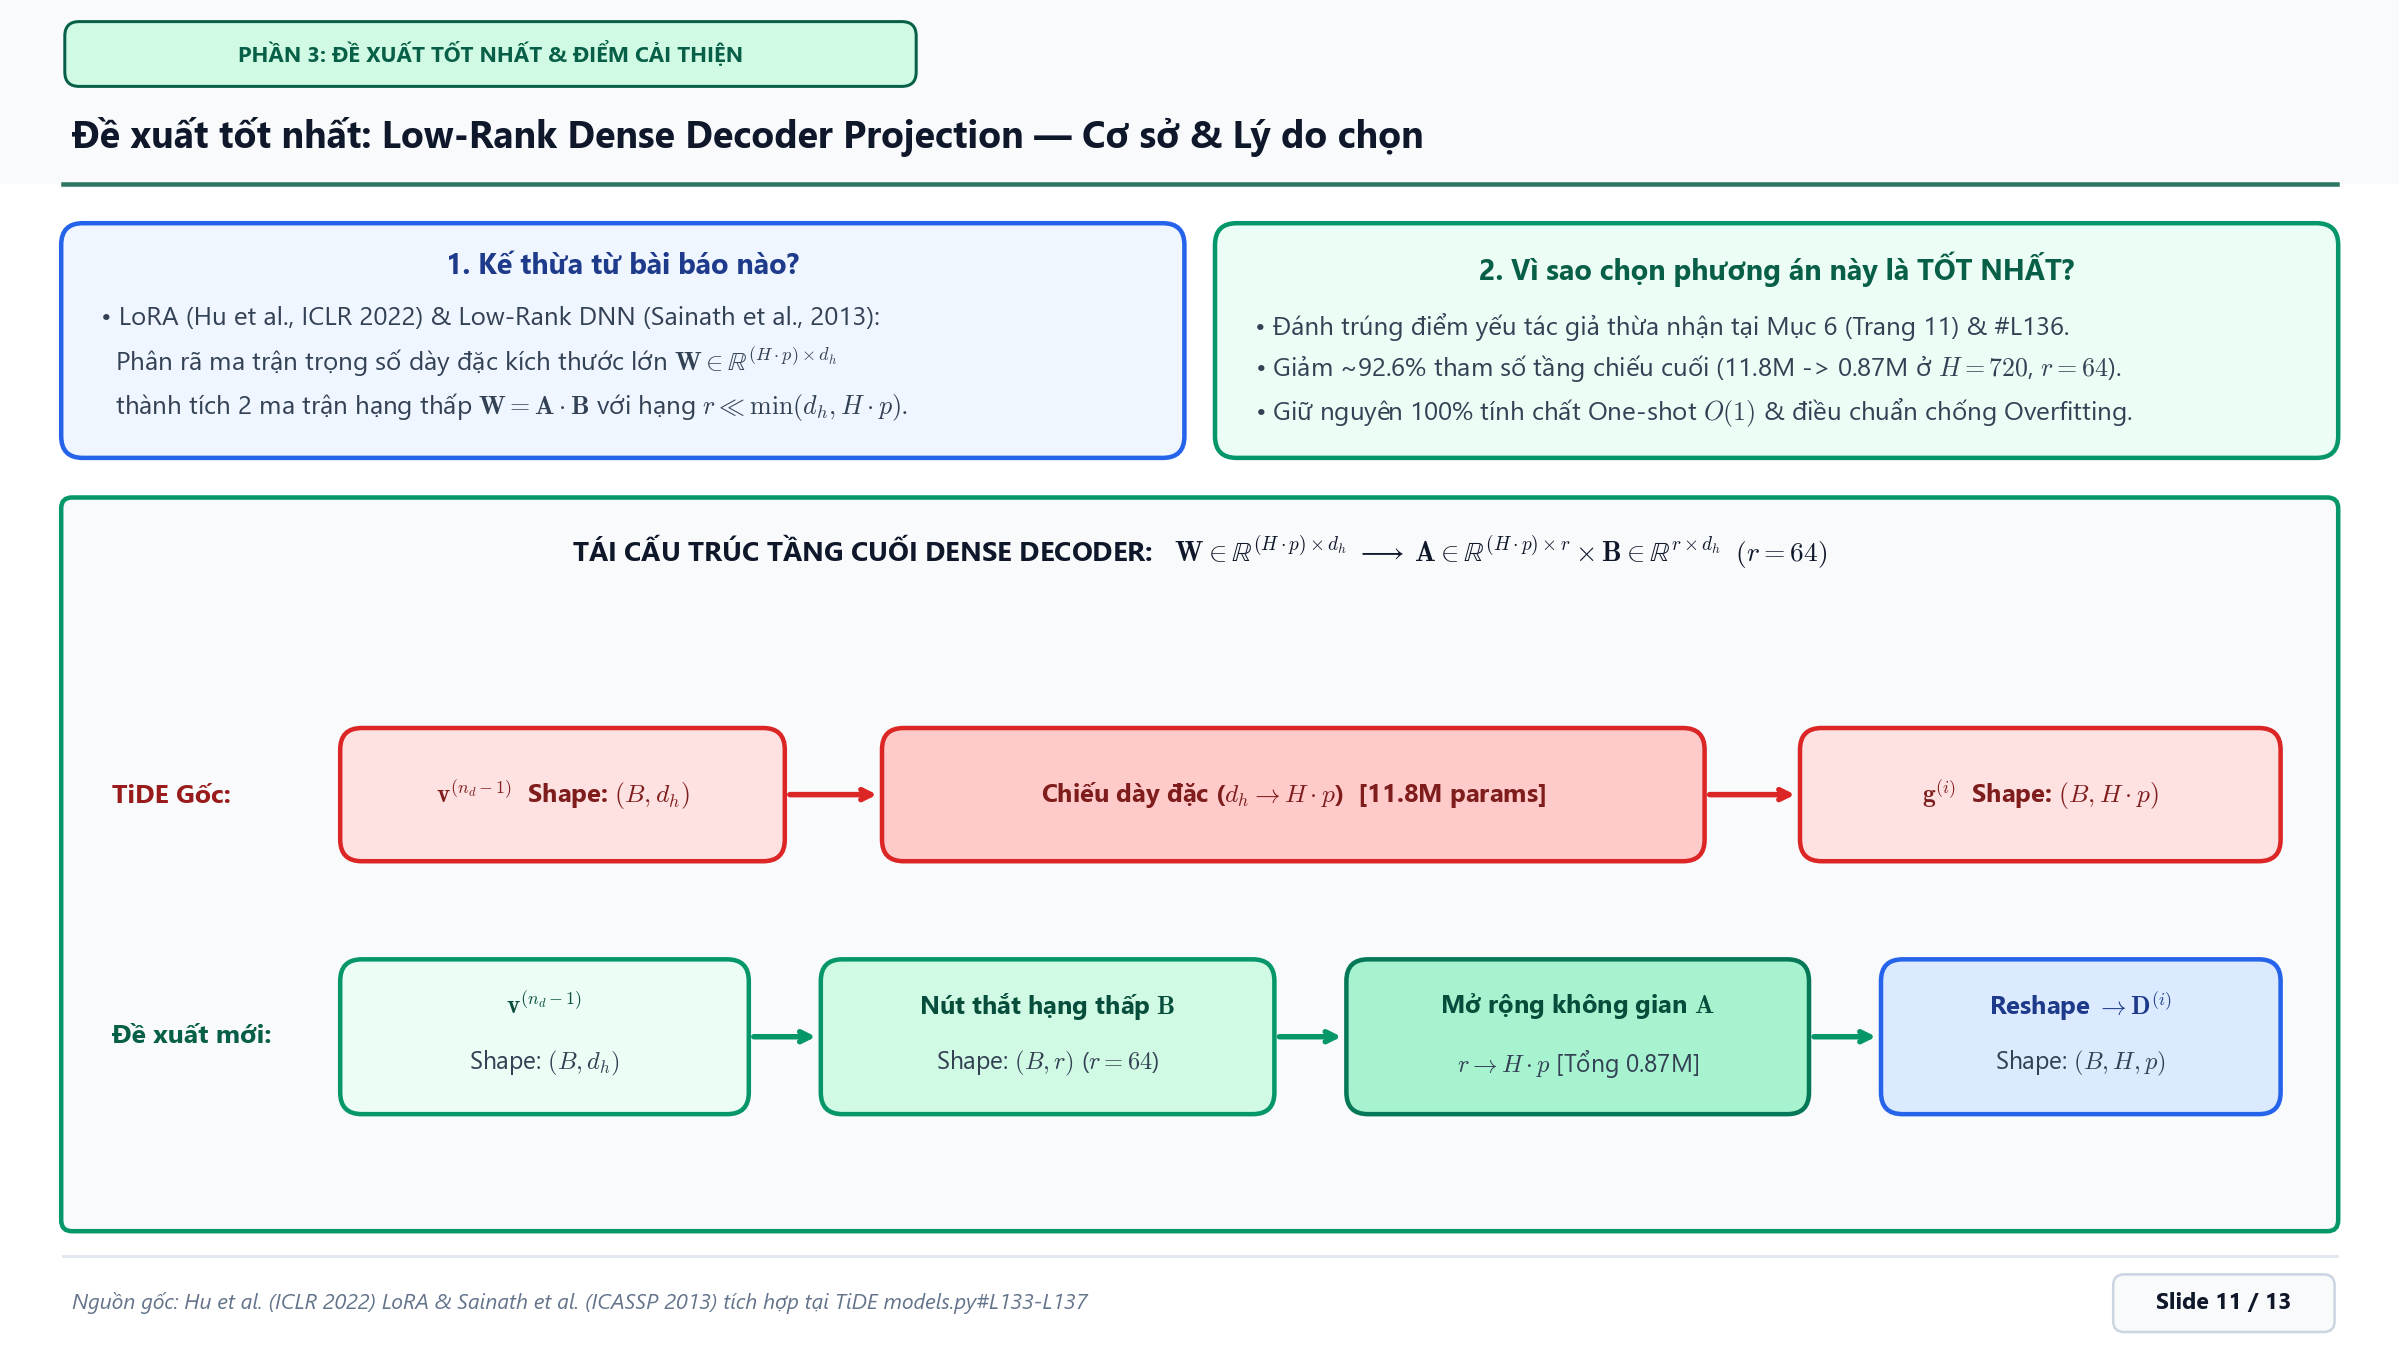
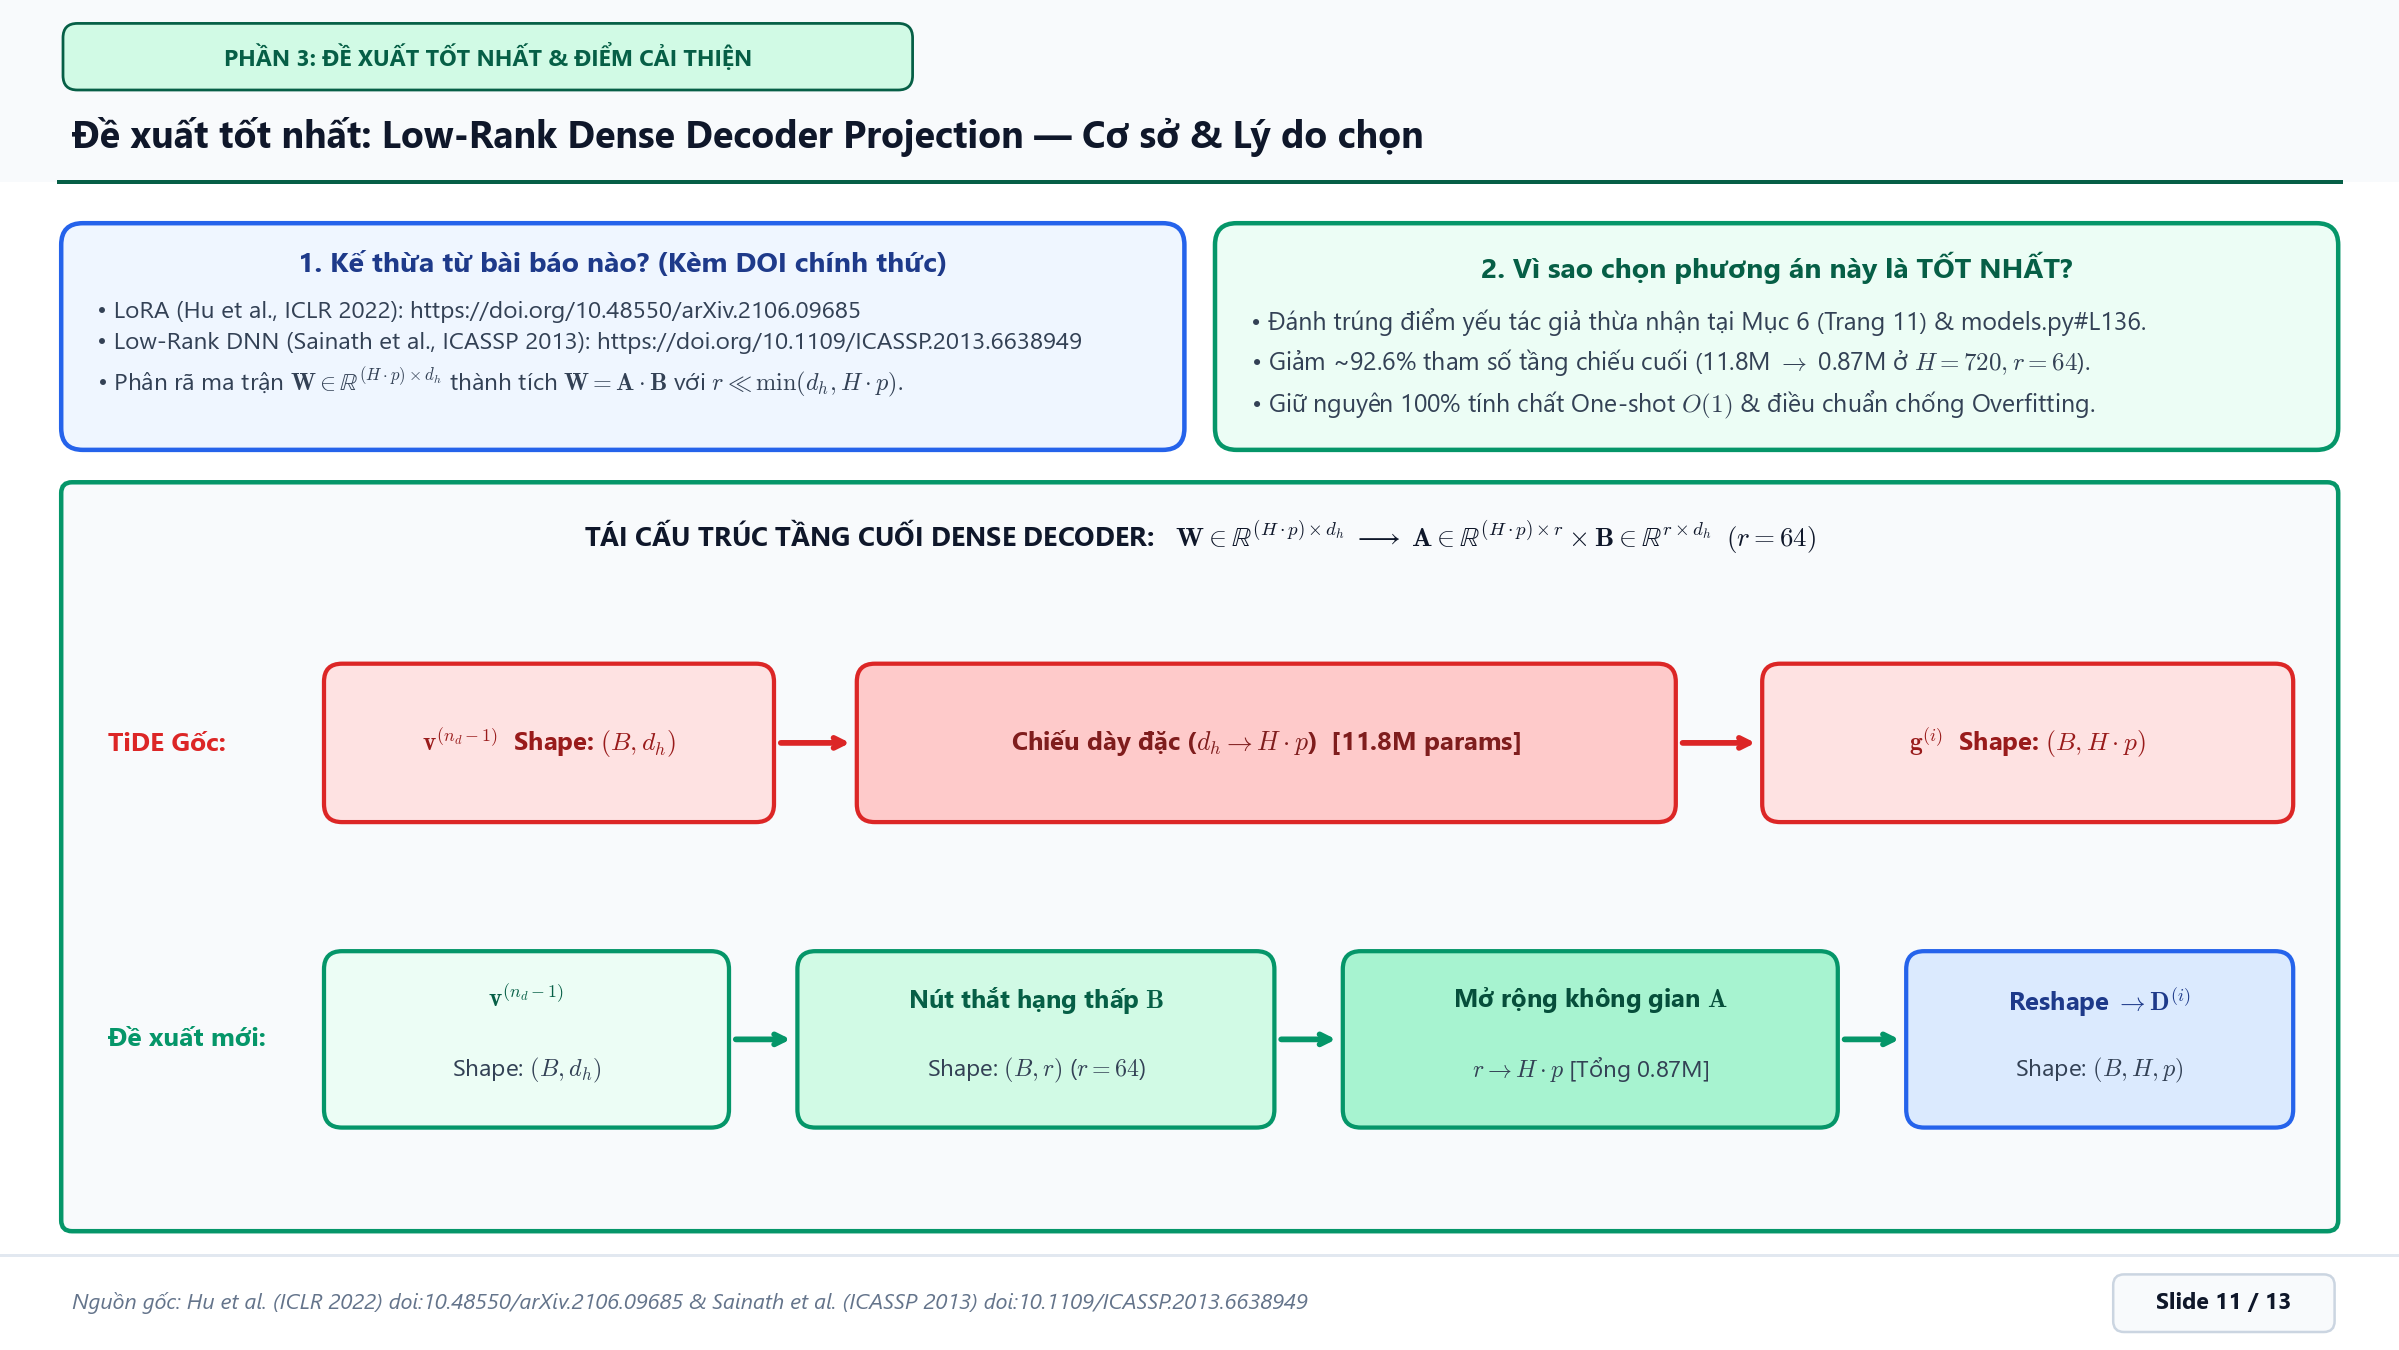
Add official paper DOI links to Slide 11 / 13 (Hu et al. 2022 & Sainath et al. 2013)

diff --git a/tasks-Hieu/presentation/slide/script_thuyet_trinh_tung_slide.md b/tasks-Hieu/presentation/slide/script_thuyet_trinh_tung_slide.md
@@ -297,7 +297,7 @@ Và chính tác giả bài báo cũng thẳng thắn thừa nhận giới hạn 
 
 Để giải quyết triệt để nút thắt 11.8 triệu tham số mà tác giả để lại tại Mục 6 và dòng 136 của `models.py`, ở Slide 11 mình đề xuất phương án tối ưu nhất cho nhóm: **Low-Rank Dense Decoder Projection**.
 
-Ý tưởng này kế thừa từ hai nghiên cứu kinh điển là **LoRA (Hu et al., ICLR 2022)** và **Low-Rank DNN (Sainath et al., ICASSP 2013)**: thay vì học một ma trận trọng số dày đặc kích thước khổng lồ $\mathbf{W}$ nối thẳng từ $d_h$ sang $H \cdot p$, ta **phân rã nó thành tích của hai ma trận hạng thấp $\mathbf{A} \cdot \mathbf{B}$** đi qua một hạng trung gian nhỏ $r$.
+Ý tưởng này kế thừa từ hai nghiên cứu kinh điển là **LoRA (Hu et al., ICLR 2022 — [doi:10.48550/arXiv.2106.09685](https://doi.org/10.48550/arXiv.2106.09685))** và **Low-Rank DNN (Sainath et al., ICASSP 2013 — [doi:10.1109/ICASSP.2013.6638949](https://doi.org/10.1109/ICASSP.2013.6638949))**: thay vì học một ma trận trọng số dày đặc kích thước khổng lồ $\mathbf{W}$ nối thẳng từ $d_h$ sang $H \cdot p$, ta **phân rã thành tích của hai ma trận hạng thấp** $\mathbf{A} \cdot \mathbf{B}$ đi qua một hạng trung gian nhỏ $r$.
 
 Để các bạn mới nghe hình dung thật rõ luồng kiến trúc mới thay đổi ra sao so với bản gốc, mình sẽ đi theo từng bước dữ liệu chạy qua tầng cuối:
 

diff --git a/tasks-Hieu/presentation/slide/slide_03_phan_3_de_xuat_cai_tien.md b/tasks-Hieu/presentation/slide/slide_03_phan_3_de_xuat_cai_tien.md
@@ -10,7 +10,8 @@
 
 ### 1. Kế thừa trực tiếp từ các bài báo uy tín
 
-- **Hu et al. (ICLR 2022) — LoRA (*Low-Rank Adaptation of Large Language Models*)** và **Sainath et al. (ICASSP 2013) — Low-Rank Matrix Factorization for DNN**.
+- **Hu et al. (ICLR 2022) — LoRA (*Low-Rank Adaptation of Large Language Models*):** [doi:10.48550/arXiv.2106.09685](https://doi.org/10.48550/arXiv.2106.09685)
+- **Sainath et al. (ICASSP 2013) — Low-Rank Matrix Factorization for DNN (*High-dimensional Output Targets*):** [doi:10.1109/ICASSP.2013.6638949](https://doi.org/10.1109/ICASSP.2013.6638949)
 - Cơ sở lý thuyết: Thay vì học trực tiếp ma trận trọng số dày đặc kích thước khổng lồ $\mathbf{W} \in \mathbb{R}^{(H \cdot p) \times d_h}$ nối từ tầng ẩn cuối $d_h$ sang toàn bộ horizon $H \cdot p$, ta phân rã tuyến tính qua một không gian cổ chai hạng thấp $r \ll \min(d_h, H \cdot p)$:
 
 $$
